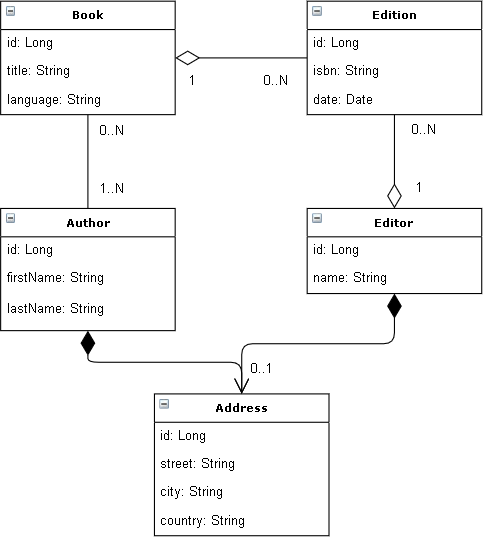
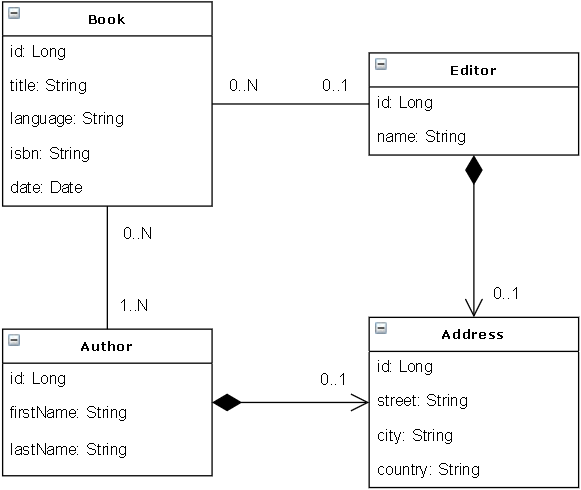
Changed the domain model

diff --git a/src/main/java/com/adeliosys/sample/model/Book.java b/src/main/java/com/adeliosys/sample/model/Book.java
@@ -1,9 +1,7 @@
 package com.adeliosys.sample.model;
 
-import javax.persistence.Entity;
-import javax.persistence.Id;
-import javax.persistence.ManyToMany;
-import javax.persistence.OneToMany;
+import javax.persistence.*;
+import java.util.Date;
 import java.util.List;
 
 @Entity
@@ -16,11 +14,15 @@ public class Book {
 
     private String language;
 
+    private String isbn;
+
+    private Date date;
+
     @ManyToMany(mappedBy = "books")
     private List<Author> authors;
 
-    @OneToMany(mappedBy = "book")
-    private List<Edition> editions;
+    @ManyToOne(fetch = FetchType.LAZY)
+    private Editor editor;
 
     public Long getId() {
         return id;
@@ -46,6 +48,22 @@ public class Book {
         this.language = language;
     }
 
+    public String getIsbn() {
+        return isbn;
+    }
+
+    public void setIsbn(String isbn) {
+        this.isbn = isbn;
+    }
+
+    public Date getDate() {
+        return date;
+    }
+
+    public void setDate(Date date) {
+        this.date = date;
+    }
+
     public List<Author> getAuthors() {
         return authors;
     }
@@ -54,11 +72,11 @@ public class Book {
         this.authors = authors;
     }
 
-    public List<Edition> getEditions() {
-        return editions;
+    public Editor getEditor() {
+        return editor;
     }
 
-    public void setEditions(List<Edition> editions) {
-        this.editions = editions;
+    public void setEditor(Editor editor) {
+        this.editor = editor;
     }
 }

diff --git a/src/main/java/com/adeliosys/sample/model/Editor.java b/src/main/java/com/adeliosys/sample/model/Editor.java
@@ -15,7 +15,7 @@ public class Editor {
     private Address address;
 
     @OneToMany(mappedBy = "editor")
-    private List<Edition> editions;
+    private List<Book> books;
 
     public Long getId() {
         return id;
@@ -41,11 +41,11 @@ public class Editor {
         this.address = address;
     }
 
-    public List<Edition> getEditions() {
-        return editions;
+    public List<Book> getBooks() {
+        return books;
     }
 
-    public void setEditions(List<Edition> editions) {
-        this.editions = editions;
+    public void setBooks(List<Book> books) {
+        this.books = books;
     }
 }
